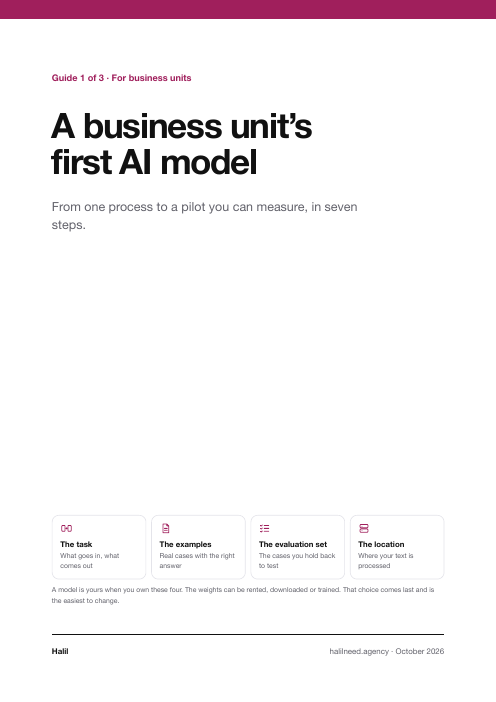
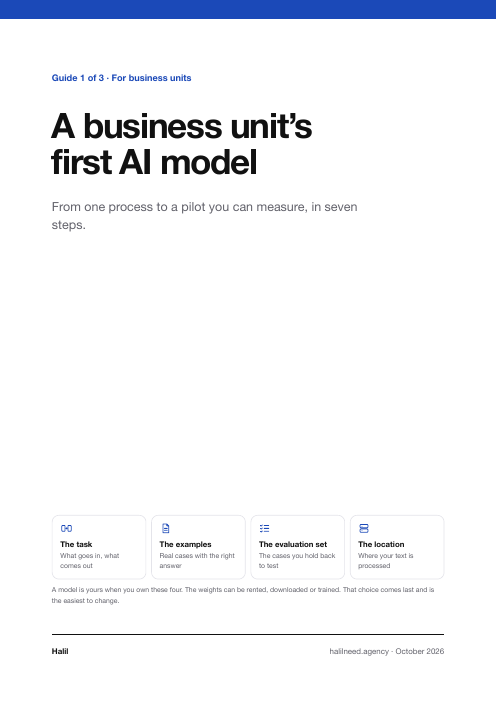
Change the accent from pink to blue
The one accent colour of the site is now #1b49b8 in the light theme
(7.8:1 on white) and #a8c7ff in the dark theme (7.9:1 on the slate).
The demo pages and the guide covers are rebuilt with the same blue.

diff --git a/assets/css/site.css b/assets/css/site.css
@@ -323,7 +323,7 @@ details > :not(summary) { padding-bottom: 1.125rem; }
    and nothing is hidden unless site.js is running.
    ========================================================================== */
 :root {
-  --accent: #a01f5c;                 /* 7.4:1 on white */
+  --accent: #1b49b8;                 /* 7.8:1 on white */
   --accent-soft: color-mix(in srgb, var(--accent) 7%, var(--bg));
   --accent-line: color-mix(in srgb, var(--accent) 32%, var(--line));
   --card: #fff;
@@ -333,14 +333,14 @@ details > :not(summary) { padding-bottom: 1.125rem; }
 }
 @media (prefers-color-scheme: dark) {
   :root:not([data-theme="light"]) {
-    --accent: #ffa6d1;               /* 7.6:1 on the slate */
+    --accent: #a8c7ff;               /* 7.9:1 on the slate */
     --card: #343741;
     --shadow: 0 1px 2px rgb(0 0 0 / .4), 0 6px 20px rgb(0 0 0 / .25);
     --shadow-up: 0 2px 6px rgb(0 0 0 / .5), 0 16px 40px rgb(0 0 0 / .45);
   }
 }
 :root[data-theme="dark"] {
-  --accent: #ffa6d1;
+  --accent: #a8c7ff;
   --card: #343741;
   --shadow: 0 1px 2px rgb(0 0 0 / .4), 0 6px 20px rgb(0 0 0 / .25);
   --shadow-up: 0 2px 6px rgb(0 0 0 / .5), 0 16px 40px rgb(0 0 0 / .45);

diff --git a/guides/demo/index.html b/guides/demo/index.html
@@ -25,7 +25,7 @@
 :root {
   color-scheme: light;
   --bg: #fafafb; --card: #fff; --text: #111; --muted: #62626b; --line: #e4e4ea; --surface: #f1f1f4;
-  --accent: #a01f5c; --accent-soft: #f9eef4; --accent-line: #e3bfd1;
+  --accent: #1b49b8; --accent-soft: #eef2fb; --accent-line: #bccbec;
   --ok: #17794a; --bad: #b3261e;
   --sans: -apple-system, BlinkMacSystemFont, "Segoe UI", Roboto, "Helvetica Neue", Arial, sans-serif;
   --mono: ui-monospace, SFMono-Regular, "SF Mono", Menlo, Consolas, monospace;
@@ -35,7 +35,7 @@
   :root {
     color-scheme: dark;
     --bg: #2b2e36; --card: #343741; --text: #f1f1f4; --muted: #b8bbc5; --line: #4a4e5a; --surface: #3d414c;
-    --accent: #ffa6d1; --accent-soft: #473a47; --accent-line: #80596e;
+    --accent: #a8c7ff; --accent-soft: #364058; --accent-line: #586c96;
     --ok: #7ddba6; --bad: #ffa199;
     --shadow: 0 1px 2px rgb(0 0 0 / .4), 0 6px 20px rgb(0 0 0 / .25);
   }

diff --git a/guides/demo/tr/index.html b/guides/demo/tr/index.html
@@ -25,7 +25,7 @@
 :root {
   color-scheme: light;
   --bg: #fafafb; --card: #fff; --text: #111; --muted: #62626b; --line: #e4e4ea; --surface: #f1f1f4;
-  --accent: #a01f5c; --accent-soft: #f9eef4; --accent-line: #e3bfd1;
+  --accent: #1b49b8; --accent-soft: #eef2fb; --accent-line: #bccbec;
   --ok: #17794a; --bad: #b3261e;
   --sans: -apple-system, BlinkMacSystemFont, "Segoe UI", Roboto, "Helvetica Neue", Arial, sans-serif;
   --mono: ui-monospace, SFMono-Regular, "SF Mono", Menlo, Consolas, monospace;
@@ -35,7 +35,7 @@
   :root {
     color-scheme: dark;
     --bg: #2b2e36; --card: #343741; --text: #f1f1f4; --muted: #b8bbc5; --line: #4a4e5a; --surface: #3d414c;
-    --accent: #ffa6d1; --accent-soft: #473a47; --accent-line: #80596e;
+    --accent: #a8c7ff; --accent-soft: #364058; --accent-line: #586c96;
     --ok: #7ddba6; --bad: #ffa199;
     --shadow: 0 1px 2px rgb(0 0 0 / .4), 0 6px 20px rgb(0 0 0 / .25);
   }
